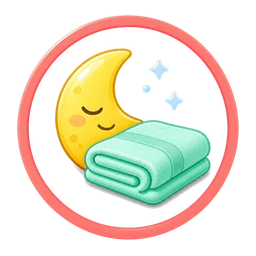
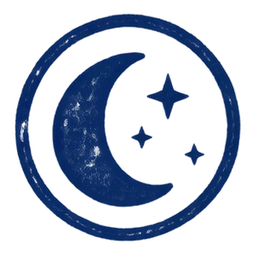
feat(decoration): 기존 8종 문구 자산 톤 통일 (#308)
* feat(decoration): unify existing stationery asset tone

* fix(decoration): preserve deployed asset dimensions

diff --git a/reports/review/decoration/DECORATION_EXISTING_ASSET_TONE_QA_2026-09-01.md b/reports/review/decoration/DECORATION_EXISTING_ASSET_TONE_QA_2026-09-01.md
@@ -1,0 +1,33 @@
+# 기존 꾸미기 자산 8종 톤 검수
+
+## 판정
+
+`PASS_FOR_PR1`
+
+PR #307의 정체성인 "호보니치 테초 위에 MUJI 문구로 꾸민 러너의 훈련 일지"에 맞춰 기존 8종을 한 제작 계열로 다시 만들었다. 이 단계는 자산 교체만 수행하며 카탈로그, 스키마, 편집기 동작은 변경하지 않는다.
+
+## 대상
+
+| 구분 | 파일 | 확인 결과 |
+| --- | --- | --- |
+| 테마 | `theme-track-notebook.webp` | 넓은 기록 여백과 얇은 트랙 코너선 유지 |
+| 테마 | `theme-sky-journal.webp` | 넓은 기록 여백과 상단 구름선 유지 |
+| 스티커 | `sticker-weather-sun.webp` | 표정 없는 날씨 기호, 평면 인쇄 톤 |
+| 스티커 | `sticker-finish-line.webp` | 러닝화와 결승 리본, 문자 없음 |
+| 도장 | `stamp-rest-day.webp` | 남색 단색 휴식 기호, 문자 없음 |
+| 테이프 | `tape-checker.webp` | 무광 종이 체크 패턴, 배경 그림자 제거 |
+| 아바타 | `avatar-start-line.webp` | 얼굴·성별·체형 단서 없는 출발 아이콘 |
+| 잉크 | `ink-navy.webp` | 남색 필기 도구 기호, 문자 없음 |
+
+## 시각 증거
+
+![기존 자산 8종 톤 검수](./DECORATION_EXISTING_ASSET_TONE_QA_2026-09-01.png)
+
+검수 이미지는 최종 WebP 파일을 다시 읽어 `#F7F3E8` 종이 배경 위에 동일한 크기로 배치했다. 생성 원본이 아니라 앱이 실제로 읽는 결과물을 비교한 증거다.
+
+## 경계
+
+- 앱·스키마·카탈로그·테스트 코드는 수정하지 않았다.
+- 신규 26종과 재료 서랍 UI는 후속 PR에서 다룬다.
+- 이미지에는 사용자 입력, 선수 데이터, 외부 상표, 문구가 포함되지 않는다.
+- 실제 기기에서의 최종 크기와 상호작용 검수는 카탈로그 및 서랍 연결 후 수행한다.
